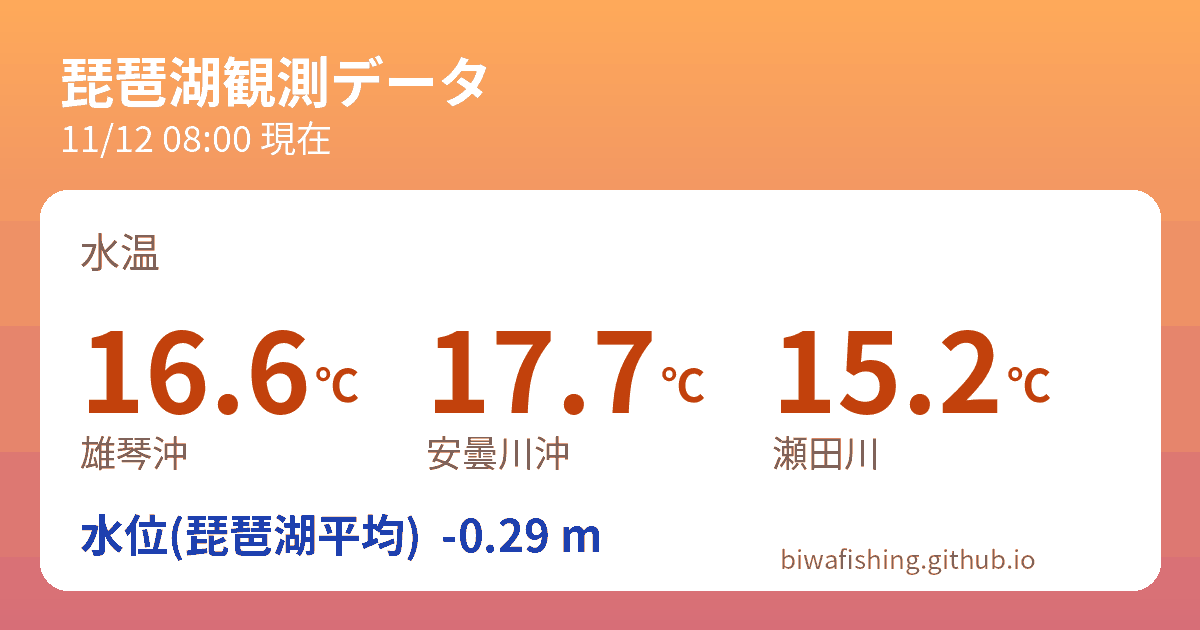
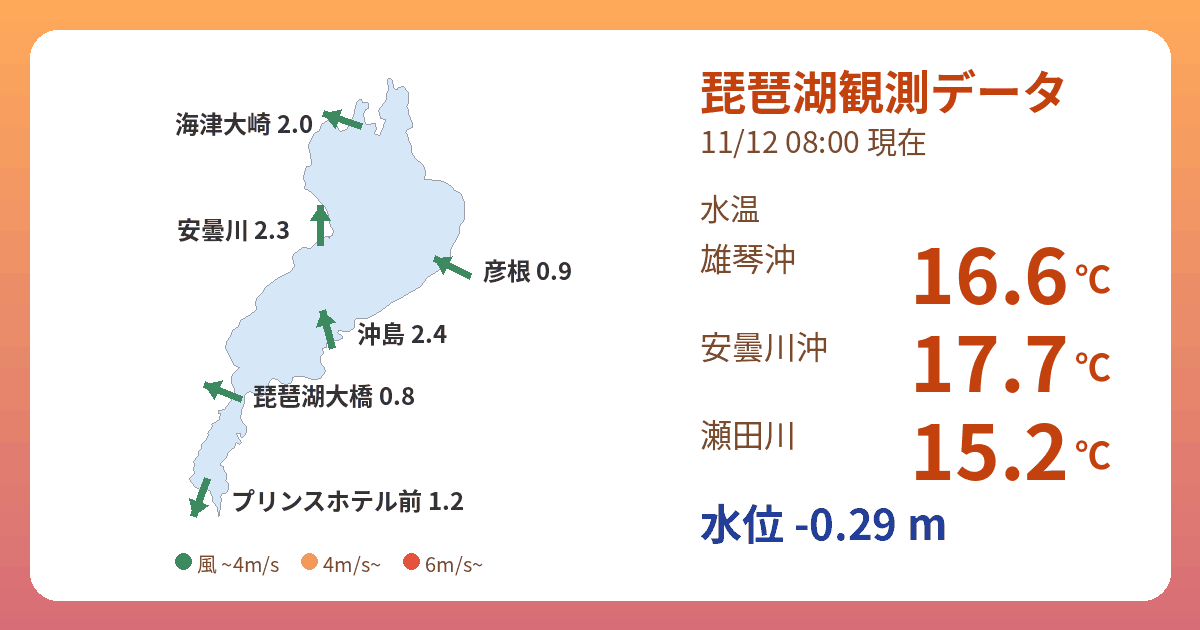
share card: map with 6 pins, all water temps
Claude-Session: https://claude.ai/code/session_01TX6WTKnYULGizqPprBYqMx

diff --git a/tools/make_share.py b/tools/make_share.py
@@ -1,11 +1,12 @@
 """SNSカード用の share.html / share.png を最新データから作る。"""
-import csv, glob, html, os, sys
+import csv, glob, html, math, os, re, sys
 from pathlib import Path
 from PIL import Image, ImageDraw, ImageFont
 
 ROOT = Path(__file__).resolve().parent.parent
 BASE = "https://biwafishing.github.io/biwako-opendata/"
 TEMPS = [("雄琴沖", "雄琴沖"), ("安曇川沖", "安曇川沖"), ("唐橋(瀬田川)", "瀬田川")]
+PINS = {"海津大崎": "海津大崎", "安曇川": "安曇川", "彦根": "彦根", "沖島": "沖島", "琵琶湖大橋": "琵琶湖大橋", "プリンスホテル前": "プリンスホテル前"}
 
 def latest():
     last = {}
@@ -39,27 +40,68 @@ def main():
     desc = " / ".join(parts) or "琵琶湖の水温・水位・天気を自動収集"
 
     W, H = 1200, 630
-    im = Image.new("RGB", (W, H), "#fff3e0")
+    im = Image.new("RGB", (W, H))
     g = ImageDraw.Draw(im)
     for y in range(H):  # 夕焼けグラデーション
         t = y / H
-        c = (int(255 - 40 * t), int(170 - 60 * t), int(90 + 30 * t))
-        g.line([(0, y), (W, y)], fill=c)
-    g.text((60, 40), "琵琶湖観測データ", font=font(54), fill="white")
-    g.text((60, 110), "%s %s 現在" % (md, hhmm), font=font(36, False), fill="white")
-    y = 190
-    g.rounded_rectangle([40, y, W - 40, H - 40], 28, fill=(255, 255, 255))
-    if temps:
-        g.text((80, y + 30), "水温", font=font(40, False), fill="#7a4a2a")
-        step = (W - 160) // max(len(temps), 1)
-        for i, (lab, t) in enumerate(temps):
-            x = 80 + i * step
-            g.text((x, y + 95), "%.1f" % t[1], font=font(110), fill="#c2410c")
-            g.text((x + 235 if t[1] >= 10 else x + 235, y + 160), "℃", font=font(44), fill="#c2410c")
-            g.text((x, y + 235), lab, font=font(36, False), fill="#7a4a2a")
+        g.line([(0, y), (W, y)], fill=(int(255 - 40 * t), int(170 - 60 * t), int(90 + 30 * t)))
+    g.rounded_rectangle([30, 30, W - 30, H - 30], 28, fill="white")
+
+    # --- 左: 琵琶湖マップ(代表6地点の風) ---
+    try:
+        src = (ROOT / "index.html").read_text(encoding="utf-8")
+        LAKE = eval(re.search(r"const LAKE=(\[\[.*?\]\]);", src).group(1))
+        WXP = eval(re.search(r"const WXP=(\[\[.*?\]\]);", src).group(1))
+        wx = {}
+        with (ROOT / "data/weather_hourly_2026.csv").open(encoding="utf-8") as f:
+            for r in csv.DictReader(f):
+                if r["wind"] != "" and r["dir"] != "":
+                    wx[r["place"]] = r
+        sc = 0.76; ox, oy = 175, 50
+        P = lambda x, y: (ox + x * sc, oy + y * sc)
+        g.polygon([P(*p) for p in LAKE], fill=(214, 232, 248), outline=(120, 160, 200))
+        col = lambda v: (229, 83, 61) if v >= 6 else (242, 153, 74) if v >= 4 else (60, 140, 90)
+        fp = font(24)
+        for name, lat, lon, side, x, y in WXP:
+            if name not in PINS or name not in wx:
+                continue
+            v = float(wx[name]["wind"]); d = float(wx[name]["dir"])
+            cx, cy = P(x, y)
+            a = math.radians(d + 180)  # 風が吹いていく向き
+            dx, dy = math.sin(a), -math.cos(a)
+            L = 20
+            tip = (cx + dx * L, cy + dy * L); tail = (cx - dx * L, cy - dy * L)
+            c = col(v)
+            g.line([tail, tip], fill=c, width=7)
+            px, py = -dy, dx
+            g.polygon([tip, (tip[0] - dx * 15 + px * 10, tip[1] - dy * 15 + py * 10),
+                       (tip[0] - dx * 15 - px * 10, tip[1] - dy * 15 - py * 10)], fill=c)
+            lab = "%s %.1f" % (PINS[name], v)
+            w = g.textlength(lab, font=fp)
+            tx = cx + 30 if side == "r" else cx - 30 - w
+            g.text((tx, cy - 15), lab, font=fp, fill="#333")
+        # 色分けの凡例(地図の下に小さく)
+        fl = font(20, False); lx = 175; ly = H - 30 - 52
+        for txt, c in (("風 ~4m/s", (60, 140, 90)), ("4m/s~", (242, 153, 74)), ("6m/s~", (229, 83, 61))):
+            g.ellipse([lx, ly + 5, lx + 16, ly + 21], fill=c)
+            g.text((lx + 22, ly), txt, font=fl, fill="#7a4a2a")
+            lx += 22 + g.textlength(txt, font=fl) + 22
+    except Exception as e:
+        print("map skipped:", e, file=sys.stderr)
+
+    # --- 右: 水温(全観測地点)と水位 ---
+    x0 = 700
+    g.text((x0, 55), "琵琶湖観測データ", font=font(46), fill="#c2410c")
+    g.text((x0, 118), "%s %s 現在" % (md, hhmm), font=font(30, False), fill="#7a4a2a")
+    g.text((x0, 185), "水温", font=font(30, False), fill="#7a4a2a")
+    y = 215
+    for lab, t in temps:
+        g.text((x0, y + 18), lab, font=font(32, False), fill="#7a4a2a")
+        g.text((x0 + 210, y), "%.1f" % t[1], font=font(76), fill="#c2410c")
+        g.text((x0 + 210 + g.textlength("%.1f" % t[1], font=font(76)) + 6, y + 36), "℃", font=font(36), fill="#c2410c")
+        y += 88
     if lv:
-        g.text((80, y + 310), "水位(琵琶湖平均)  %+.2f m" % lv[1], font=font(44), fill="#1e40af")
-    g.text((W - 40 - 380, H - 40 - 52), "biwafishing.github.io", font=font(26, False), fill="#9a7b5a")
+        g.text((x0, y + 12), "水位 %+.2f m" % lv[1], font=font(42), fill="#1e40af")
     im = im.quantize(colors=48, method=Image.Quantize.MEDIANCUT, dither=Image.Dither.NONE)
     im.save(ROOT / "share.png", optimize=True)
 
